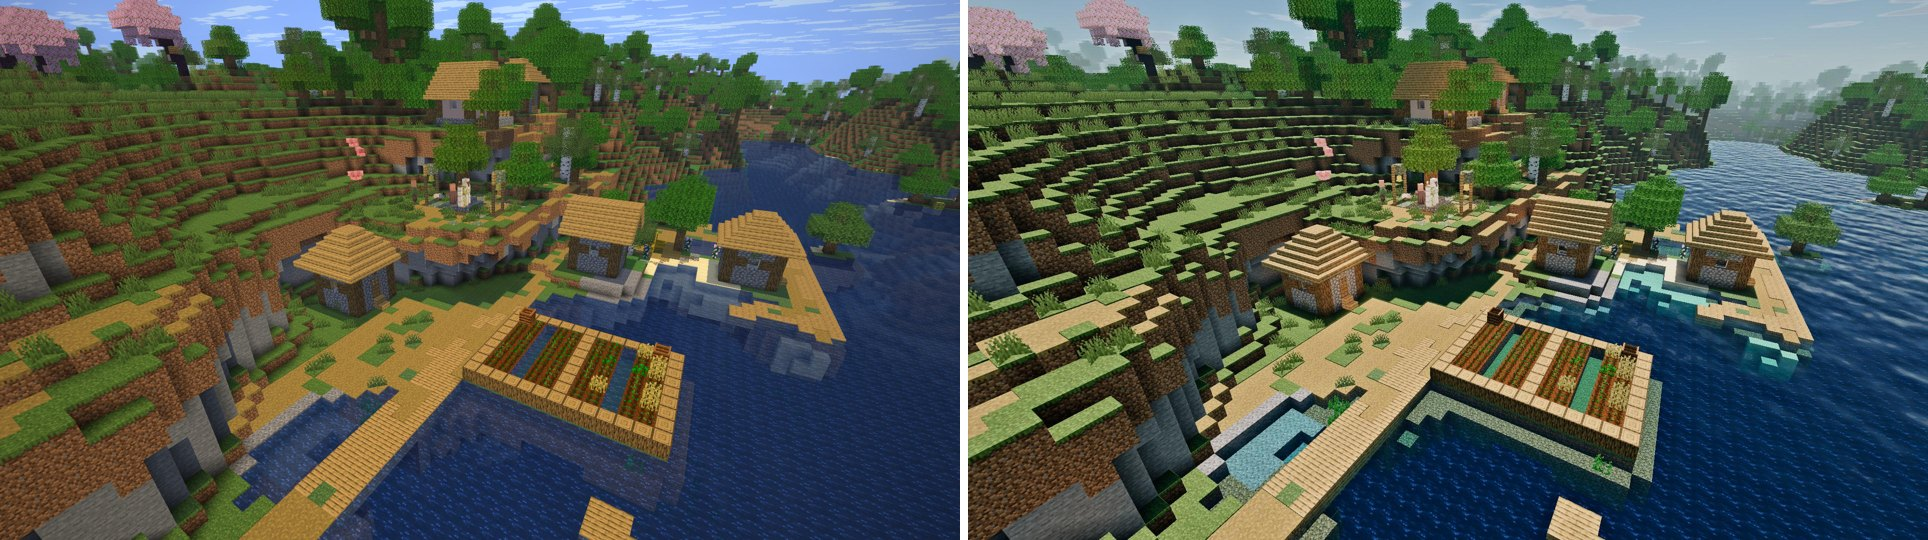
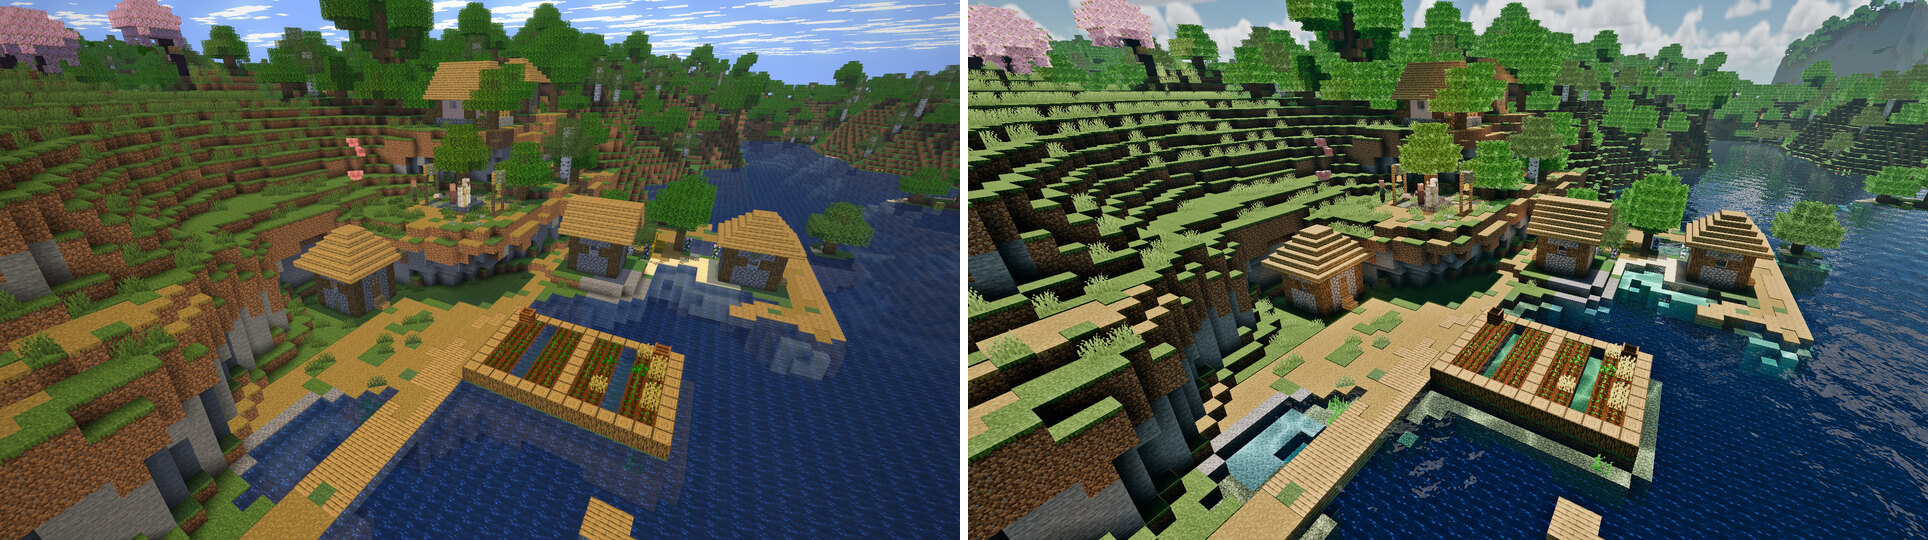
docs(shader): refresh the realistic pictures, compare all three shaders and measure their cost
The realistic pictures are rendered again with the new foliage, from the cameras in development.md. Two new pictures show the same village with none, simple and realistic at noon and at sunset. The cost figures come from the emulated 2-core host with default settings, twice per shader. realistic-cherry.jpg stays: its cherry trees don't appear from the documented camera.

diff --git a/docs/shader.md b/docs/shader.md
@@ -7,12 +7,16 @@ players don't need anything for them. They're unrelated to Iris shader packs on 
 
 | `"shader"` | Look | Extra time per camera (1080p, 2-core host) |
 |---|---|---|
-| `simple` (default) | Camera Obscura's picture with sun shadows, warm light, haze, bloom and a colour grade. | about 6 s |
-| `realistic` | Relit from scratch, in the style of shader packs like Photon: physical sky, volumetric clouds, soft shadows, sun rays, leaves that glow in the sun, reflections in water, filmic colour. | about 24 s |
+| `simple` (default) | Camera Obscura's picture with sun shadows, warm light, haze, bloom and a colour grade. | about 7 s |
+| `realistic` | Relit from scratch, in the style of shader packs like Photon: physical sky, volumetric clouds, soft shadows, sun rays, leaves that glow in the sun, reflections in water, filmic colour. | about 29 s |
 | `none` | Camera Obscura's plain picture. | – |
 
 Choose one for every camera with `"shader"` in the config, or for one camera with
 `/dailycam shader <simple|realistic|none> [name]`. `default` makes a camera follow the config again.
+
+![The same village at noon with each shader](images/shaders-noon.jpg)
+
+![The same village at sunset with each shader](images/shaders-sunset.jpg)
 
 ## Realistic
 
@@ -83,12 +87,10 @@ The realistic shader is tuned with `realisticSettings`:
 
 ### Cost
 
-On the 2-core test host, the realistic shader took 16 s for a 1080p picture, against 6 s for the simple one, under
-the same CPU limit as the rest of the render. TPS stayed at 20 and no tick took longer than 25 ms. The clouds,
-reflections and sun rays added since make it about a third slower, and the foliage lighting about 8% more (4.9 s,
-then 6.5 s, then about 7 s for the same 1080p view on a desktop CPU without a limit). The leaves sticking out of
-their blocks make drawing the frame about 1 s slower on that CPU (2.3 s to 3–3.8 s). Expect about 24 s on the test
-host. It needs about 170 MB of extra memory at 1080p, and about 4× that at 4K.
+On the [2-core test host](performance.md#measurements), with the default CPU limit, a 1080p picture of the village
+took 149–152 s with the realistic shader, against 128–129 s with the simple one and 121–123 s without a shader. The
+shading itself took about 25 s, and the leaves sticking out of their blocks made drawing the frame about 4 s slower.
+TPS stayed at 20 throughout. It needs about 170 MB of extra memory at 1080p, and about 4× that at 4K.
 
 The realistic shader replaces Camera Obscura's sky, clouds and fog with its own.
 
@@ -126,6 +128,6 @@ The simple shader is tuned with `shaderSettings`:
 
 ### Cost
 
-The simple shader adds 1–9 seconds per camera, depending on resolution and CPU. It runs in the background under
-the same CPU limit as the rest of the render, and in the [2-core test](performance.md) the shading phase caused no
-hitches.
+The simple shader adds about 7 s per 1080p camera on the 2-core test host, less on a faster CPU. It runs in the
+background under the same CPU limit as the rest of the render, and in the [2-core test](performance.md#measurements)
+the shading phase caused no hitches.

diff --git a/CHANGELOG.md b/CHANGELOG.md
@@ -3,7 +3,7 @@ A server-side Minecraft Fabric mod: players place virtual cameras with `/dailyca
 
 ## Changes
 - Distant terrain (LOD), built like Voxy: beyond the render distance, the real blocks of the saved world are drawn out to `lodDistance` chunks (default 64, 1024 blocks), read straight from disk without loading the chunks. Blocks show their baked models (textures, overlays, see-through leaves and plants, biome colours), their saved light and vanilla corner shading, and are lit exactly like the near terrain, with a gentle distance fog at the end. About 6 s more per camera; off in the Nether
-- New `realistic` shader in the style of Photon: a physically based sky with volumetric clouds that change daily, sunlight coloured by the atmosphere, soft shadows, sun rays, leaves that stick out of their blocks and glow when the sun shines through them, ambient occlusion, water that reflects the trees, hills and sky around it, caustics in shallow water, haze, automatic exposure and filmic (AgX) colour. Nights and caves stay visible. Choose it with `"shader": "realistic"` or `/dailycam shader realistic [name]`; tune it with `realisticSettings`. It takes about 18 s more per camera than the simple shader
+- New `realistic` shader in the style of Photon: a physically based sky with volumetric clouds that change daily, sunlight coloured by the atmosphere, soft shadows, sun rays, leaves that stick out of their blocks and glow when the sun shines through them, ambient occlusion, water that reflects the trees, hills and sky around it, caustics in shallow water, haze, automatic exposure and filmic (AgX) colour. Nights and caves stay visible. Choose it with `"shader": "realistic"` or `/dailycam shader realistic [name]`; tune it with `realisticSettings`. It takes about 22 s more per camera than the simple shader
 - The client helper reads which `/dailycam set` options the server supports and only adds those, so it now works on older servers too (on a 1.2.0 server it no longer causes "Incorrect argument")
 - A `config.json` or `cameras.json` with an error is backed up as `<file>.broken-<date>` and no longer overwritten; `/dailycam reload` shows the error and keeps the previous settings and cameras
 - Players in a picture get the skin they joined with. Camera Obscura looked each skin up on Mojang's session server, and when Mojang rate-limited the server (HTTP 429), that player stayed in the default skin until a restart

diff --git a/docs/development.md b/docs/development.md
@@ -61,6 +61,8 @@ Renders land in `config/dailycams/renders/<camera>/`.
 | `meadow.jpg` | cherry | `3500` | simple shader |
 | `mountains.jpg` | peaks | `8500` | simple shader |
 | `coast.jpg` | coast | `1800` | simple shader |
+| `shaders-noon.jpg` | village | `noon` | `none`, `simple` and `realistic`, left to right |
+| `shaders-sunset.jpg` | village | `12300` | `none`, `simple` and `realistic`, left to right |
 | `realistic-comparison.jpg` | village | `noon` | `simple` (left), `realistic` (right) |
 | `realistic-cherry.jpg` | cherry | `noon` | realistic shader |
 | `realistic-sunset.jpg` | village | `12300` | realistic shader |
@@ -73,7 +75,8 @@ Distant terrain only shows chunks that exist. Before the distant-terrain picture
 the cameras with the test mod: `dcgen -304 -80 135 64` for peaks and `dcgen -170 -860 -30 64` for village.
 
 Pictures are scaled down from the renders: single ones to 1280 px wide (`village.jpg` to 1600 px), and each half of
-a side-by-side one to 960 px (800 px with a label for `shader-comparison.jpg` and `render-distance.jpg`).
+a side-by-side one to 960 px (800 px with a label for `shader-comparison.jpg` and `render-distance.jpg`), and each
+third of `shaders-noon.jpg` and `shaders-sunset.jpg` to 640 px with a label.
 
 ## Project layout
 

diff --git a/docs/performance.md b/docs/performance.md
@@ -53,6 +53,22 @@ than 100 ms late (two missed ticks), which players can notice.
   faster).
 - Each render logs how long it spent building, drawing and shading, and how long it waited for the server.
 
+### Shaders
+
+The same host and mobs, with the default settings (distant terrain out to 64 chunks, 1080p JPEG), rendering the
+village from [the documentation pictures](development.md#documentation-pictures) twice with each shader, over
+terrain that was already generated:
+
+| Shader | Time per camera | Of that, shading | Hitches | Worst second | Longest GC pause |
+|---|---|---|---|---|---|
+| `none` | 121–123 s | 1 s | 0 | 20 TPS | 55 ms |
+| `simple` | 128–129 s | 8–9 s | 0 | 20 TPS | 63 ms |
+| `realistic` | 149–152 s | 25–26 s | 0 | 20 TPS | 58 ms |
+
+The realistic shader also takes about 4 s longer to draw the frame, for the leaves that stick out of their blocks.
+Most of the time goes into building geometry for the chunks in view: about 103 s with every shader. The idle
+server had no hitches either on this machine.
+
 ## Render distance
 
 `renderDistance` is in chunks, like Minecraft's own setting. The default of 16 (256 blocks) shows the landscape
